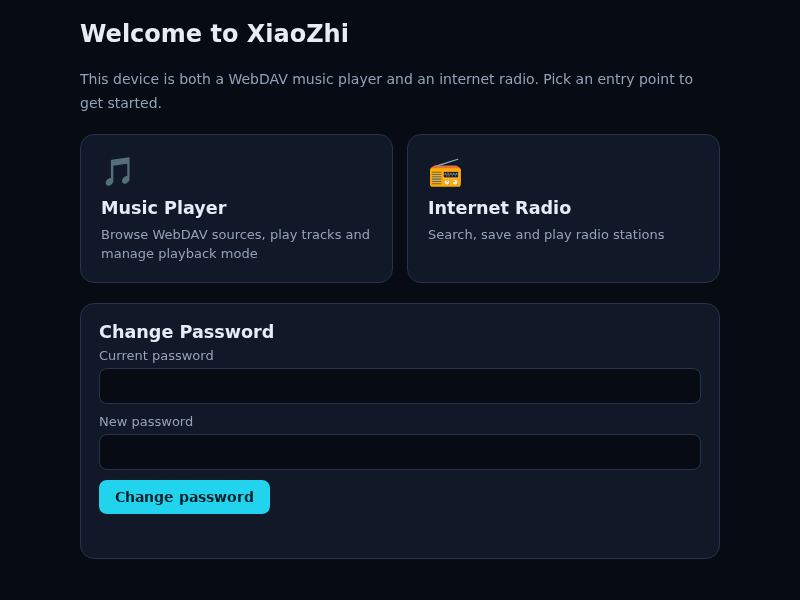
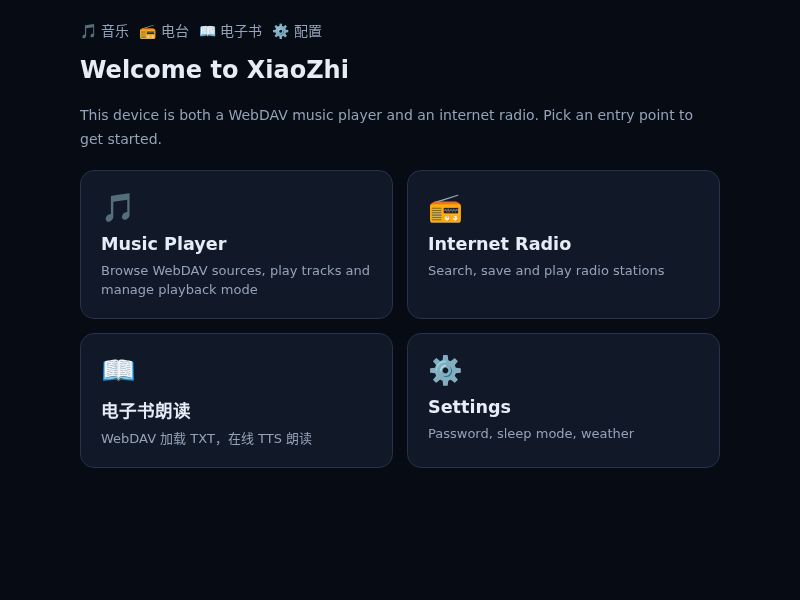
docs: refresh READMEs and UI screenshots
Correct variant, board and language counts, fix the password location, remove duplicate entries, add beginner quick-start guides in all three languages, and recapture the login and home page screenshots from the device.

diff --git a/README_ja.md b/README_ja.md
@@ -16,12 +16,13 @@
 
 ## 最近の更新
 
-- 本プロジェクトはESP-IDF v6.0.1以降を必須とし、推奨SDKは[ESP-IDF `release/v6.1`](https://github.com/espressif/esp-idf/tree/release/v6.1)ブランチです。ESP-IDF 5.xはサポートしません。現在のマトリクスは171バリアントで、ESP32-S31バリアントにはIDF 6.1以降が必要です。
+- 本プロジェクトはESP-IDF v6.0.1以降を必須とし、推奨SDKは[ESP-IDF `release/v6.1`](https://github.com/espressif/esp-idf/tree/release/v6.1)ブランチです。ESP-IDF 5.xはサポートしません。現在のマトリクスは197バリアントで、ESP32-S31バリアントにはIDF 6.1以降が必要です。
 - MQTTとBluFiの暗号処理をPSA Cryptoへ移行し、IDF 6のコンポーネント分割およびサードパーティ依存関係にも対応しました。
 - オーディオパイプラインの並行処理、MQTT/UDPパケット検証、リリースマトリクス選択処理を強化しました。
 - ESP-SR 2.4.7を使用すると、ESP32-P4 Rev1とRev3の両方がIDF 6に対応します。
-- WebDAVミュージックプレイヤーとネットワークラジオを追加しました。WebUIはホーム(`/`)、音楽(`/music`)、ラジオ(`/radio`)の3ページ構成で、共通のCookieログイン(`/login`)と統一API `/api/auth` を使用します。ホームでパスワード変更もできます。音源フォームではOpenList経由でFTP・SFTP・SMB・オブジェクトストレージを利用するよう案内します。詳細は[WebDAV Music Player](docs/music-player.md)を参照してください。
+- WebDAVミュージックプレイヤーとネットワークラジオを追加しました。WebUIはホーム(`/`)、音楽(`/music`)、ラジオ(`/radio`)、電子書籍(`/book`)の4ページ構成で、共通のCookieログイン(`/login`)と統一API `/api/auth` を使用します。パスワード変更は設定ページ(`/config`)で行います。音源フォームではOpenList経由でFTP・SFTP・SMB・オブジェクトストレージを利用するよう案内します。詳細は[WebDAV Music Player](docs/music-player.md)を参照してください。
 - Wi-Fiは同じSSIDの複数APから最も強い信号を選び、Espressifのローミングアプリで能動的に切り替えます。ラジオ再生には断線時の再接続とバッファ監視を追加しました。
+- WebDAVのTXT電子書籍読み上げを追加しました。書籍一覧はページ分割され、進捗はNVSに保存されます。TTSはEdge TTSとHTTPエンドポイントを切り替えられます。対応ボードではBOOTボタンで読み上げを停止できます。
 
 ### 実装済み機能
 
@@ -32,7 +33,7 @@
 - 話者認識、現在話している人を識別 [3D Speaker](https://github.com/modelscope/3D-Speaker)
 - OLED / LCDディスプレイで絵文字や豊かな感情表現を表示し、一部のボードではカメラによる視覚入力にも対応
 - バッテリー表示と電源管理
-- 38言語の画面表示に対応し、音声プロンプトはローカライズ済みリソースを優先して、未収録時は英語へフォールバック
+- 41言語の画面表示に対応し、音声プロンプトはローカライズ済みリソースを優先して、未収録時は英語へフォールバック
 - ESP32、ESP32-C3、ESP32-C5、ESP32-C6、ESP32-S3、ESP32-P4チッププラットフォーム
 - ホットスポットまたはBluFiによるWi-Fiプロビジョニング
 - デバイス側MCPによるデバイス制御（音量・明るさ調整、アクション制御など）
@@ -40,6 +41,7 @@
 - カスタマイズ可能なウェイクワード、フォント、絵文字、チャット背景、オンラインWeb編集に対応 ([カスタムアセットジェネレーター](https://github.com/78/xiaozhi-assets-generator))
 - WebDAV音源からリモート音楽を再生。WebプレイヤーとAIツールが再生セッションを共有し、ページ分割された曲一覧、検索、順番/ランダム再生、一時停止と再開、シークに対応。OpenListを使うとFTP・SFTP・SMB・オブジェクトストレージもWebDAVとして公開できます
 - ネットワークラジオ：WebUIでの検索・お気に入り、音声での選局、HLSおよびHTTP/ICYストリーム再生、断線時の自動再接続に対応
+- 電子書籍：WebDAVのTXTファイルをページ単位で一覧表示し、前回の位置から再開できます。TTSはEdge TTSかHTTPインターフェースを選択できます
 - Wi-Fiは同じSSIDのAPから最も強い信号を自動選択し、能動的にローミングします
 
 ### UI Preview
@@ -64,7 +66,7 @@
 
 ![ブレッドボードデモ](docs/v1/wiring2.jpg)
 
-### 138のボードディレクトリと171のリリースバリアントに対応（一部のみ表示）
+### 168のボードディレクトリと197のリリースバリアントに対応（一部のみ表示）
 
 - <a href="https://oshwhub.com/li-chuang-kai-fa-ban/li-chuang-shi-zhan-pai-esp32-s3-kai-fa-ban" target="_blank" title="立創・実戦派 ESP32-S3 開発ボード">立創・実戦派 ESP32-S3 開発ボード</a>
 - <a href="https://github.com/espressif/esp-box" target="_blank" title="楽鑫 ESP32-S3-BOX-3">楽鑫 ESP32-S3-BOX-3</a>
@@ -128,6 +130,18 @@
 
 👉 [初心者向けファームウェア書き込みガイド（英語）](https://docs.xiaozhi.me/en/firmware/flashing.html)
 
+### クイックスタート：書き込みから日常利用まで
+
+1. 上のガイドに従ってファームウェアを書き込み、電源を入れます。開発環境は不要です。
+2. ホットスポットまたはBluFiでWi-Fiに接続します。手順は[利用ドキュメント](https://docs.xiaozhi.me/)を参照してください。
+3. [xiaozhi.me コンソール](https://xiaozhi.me/)でデバイスを紐付けます。紐付けない場合、Web画面は使えますが音声対話はできません。
+4. ルーターの接続機器一覧か、シリアルログのIP表示でデバイスアドレスを確認します。
+5. 同じネットワークのブラウザで `http://<デバイスIP>/login` を開きます。初期パスワードは `xiaozhi` です。初回ログイン後は設定ページ(`/config`)で変更してください。
+6. ホームページには4つの入口があります。音楽プレイヤー(`/music`)、ネットワークラジオ(`/radio`)、電子書籍(`/book`)、設定(`/config`)です。
+7. 電子書籍ページでWebDAVディレクトリとTXTファイルを選び、TTS方式を指定します。Edge TTSはインターネット接続が必要です。HTTP方式はOpenAI互換の `/v1/audio/speech` エンドポイントを指定できます。進捗は保存され、次回は続きから再生できます。
+
+BOOTボタンに対応したボードでは、短押しで電子書籍またはラジオの再生を停止し、待機状態に戻せます。
+
 ### 開発環境
 
 - Cursor または VSCode
@@ -146,7 +160,6 @@
 - [詳細なWebSocket通信プロトコルドキュメント](docs/websocket.md)
 - [WebDAV Music Player：音源設定、Web API、AIツール、再生処理](docs/music-player.md)
 - [ネットワークラジオ：局管理、音声選局、HLS再生と再接続](docs/radio.md)
-- [WebDAV Music Player：音源設定、Web API、AIツール、再生処理](docs/music-player.md)
 
 ## 大規模モデル設定
 

diff --git a/README.md b/README.md
@@ -16,13 +16,13 @@ As a voice interaction entry, the XiaoZhi AI chatbot leverages the AI capabiliti
 
 ## Recent Updates
 
-- The project now requires ESP-IDF v6.0.1 or later. [ESP-IDF `release/v6.1`](https://github.com/espressif/esp-idf/tree/release/v6.1) is the recommended SDK branch. ESP-IDF 5.x is no longer supported. The current matrix contains 171 variants; ESP32-S31 builds require IDF 6.1 or later.
+- The project now requires ESP-IDF v6.0.1 or later. [ESP-IDF `release/v6.1`](https://github.com/espressif/esp-idf/tree/release/v6.1) is the recommended SDK branch. ESP-IDF 5.x is no longer supported. The current matrix contains 197 variants; ESP32-S31 builds require IDF 6.1 or later.
 - MQTT and BluFi cryptographic code has migrated to PSA Crypto. IDF 6 component splits and third-party dependency compatibility have also been addressed.
 - Audio pipeline concurrency, MQTT/UDP packet validation, and release-matrix selection have been hardened.
 - ESP32-P4 Rev1 and Rev3 are both supported on IDF 6 with ESP-SR 2.4.7.
-- Added a WebDAV music player and internet radio: the web UI has a home page (`/`), a music page (`/music`) and a radio page (`/radio`), sharing one cookie-based login page (`/login`) and a unified `/api/auth` endpoint. The home page also changes the password. The source form recommends OpenList for FTP, SFTP, SMB and object storage. See [WebDAV Music Player](docs/music-player.md).
+- Added a WebDAV music player and internet radio: the web UI has a home page (`/`), a music page (`/music`), a radio page (`/radio`) and an e-book page (`/book`), sharing one cookie-based login page (`/login`) and a unified `/api/auth` endpoint. The password is changed on the configuration page (`/config`). The source form recommends OpenList for FTP, SFTP, SMB and object storage. See [WebDAV Music Player](docs/music-player.md).
 - Wi-Fi now picks the strongest AP among same-SSID networks and enables Espressif's roaming app for active switching; radio playback adds stream reconnection and a buffering watchdog.
-- Added a WebDAV music player: the web UI manages sources, lists tracks page by page, and controls playback and seeking. AI uses the `self.music.*` tools against the same session. Playback mode and the selected source are saved in NVS. See [WebDAV Music Player](docs/music-player.md).
+- Added WebDAV TXT e-book reading. The book list is paginated, progress is saved in NVS, and the TTS provider can be switched between Edge TTS and a configurable HTTP endpoint. The BOOT button stops reading and returns to idle.
 
 ### Features Implemented
 
@@ -33,7 +33,7 @@ As a voice interaction entry, the XiaoZhi AI chatbot leverages the AI capabiliti
 - Speaker recognition, identifies the current speaker [3D Speaker](https://github.com/modelscope/3D-Speaker)
 - OLED / LCD displays with emoji and rich expression support, plus camera vision input on supported boards
 - Battery display and power management
-- 39 interface languages, with localized voice prompts where available and English fallback
+- 41 interface languages, with localized voice prompts where available and English fallback
 - ESP32, ESP32-C3, ESP32-C5, ESP32-C6, ESP32-S3, and ESP32-P4 chip platforms
 - Wi-Fi provisioning through hotspot or BluFi
 - Device-side MCP for device control (Speaker, LED, Servo, GPIO, etc.)
@@ -41,6 +41,7 @@ As a voice interaction entry, the XiaoZhi AI chatbot leverages the AI capabiliti
 - Customizable wake words, fonts, emojis, and chat backgrounds with online web-based editing ([Custom Assets Generator](https://github.com/78/xiaozhi-assets-generator))
 - Play remote music from WebDAV sources. The web player and AI tools share one playback session, with paginated track lists, search, sequential/shuffle modes, pause and resume, and progress seeking. OpenList can expose FTP, SFTP, SMB and object storage as WebDAV
 - Internet radio: search and save stations from the web UI, select them by voice, play HLS or direct HTTP/ICY streams, and reconnect automatically after stream drops
+- E-book reading: browse WebDAV TXT books page by page, resume from the last position, and choose Edge TTS or an HTTP TTS endpoint; the BOOT button stops playback
 - Wi-Fi automatically prefers the strongest AP among networks with the same SSID and roams proactively
 
 ### UI Preview
@@ -65,7 +66,7 @@ Breadboard demo:
 
 ![Breadboard Demo](docs/v1/wiring2.jpg)
 
-### Supports 138 Board Directories and 171 Release Variants (Partial List)
+### Supports 168 Board Directories and 197 Release Variants (Partial List)
 
 - <a href="https://oshwhub.com/li-chuang-kai-fa-ban/li-chuang-shi-zhan-pai-esp32-s3-kai-fa-ban" target="_blank" title="LiChuang ESP32-S3 Development Board">LiChuang ESP32-S3 Development Board</a>
 - <a href="https://github.com/espressif/esp-box" target="_blank" title="Espressif ESP32-S3-BOX-3">Espressif ESP32-S3-BOX-3</a>
@@ -129,6 +130,18 @@ The firmware connects to the official [xiaozhi.me](https://xiaozhi.me) server by
 
 👉 [Beginner's Firmware Flashing Guide](https://docs.xiaozhi.me/en/firmware/flashing.html)
 
+### Quick Start: From a Flashed Device to Daily Use
+
+1. Flash a prebuilt image and power on the board. Follow the flashing guide above; you do not need a development environment for this step.
+2. Put the device into Wi-Fi provisioning mode and connect it to your network. Use the hotspot or BluFi flow described in the [guide](https://docs.xiaozhi.me/en/).
+3. Bind the device in the [xiaozhi.me console](https://xiaozhi.me/) so voice chat works. Without binding, the device can still use its web pages, but it will not answer voice requests.
+4. Find the device IP in your router's client list or in the serial log line that reports the obtained IP address.
+5. Open `http://<device-ip>/login` in a browser on the same network. The default password is `xiaozhi`. Change it on the configuration page (`/config`) after the first login.
+6. The home page links to four tools: **Music Player** (`/music`) for WebDAV audio, **Internet Radio** (`/radio`) for station search and playback, **E-book** (`/book`) for WebDAV TXT files, and **Settings** (`/config`) for password, language, sleep timer and network settings.
+7. In `/book`, save a WebDAV directory, pick a TXT file, and choose the TTS provider. Edge TTS needs internet access; the HTTP option accepts any OpenAI-compatible `/v1/audio/speech` endpoint. Progress is saved, so the next play resumes where you stopped.
+
+On boards that implement the BOOT-button playback control, a short press stops the current e-book or radio stream and returns the device to idle.
+
 ### Development Environment
 
 - Cursor or VSCode
@@ -148,7 +161,6 @@ Use the `release/v6.1` branch rather than the `v6.1` release tag: an ESP32-C3 Wi
 - [A detailed WebSocket communication protocol document](docs/websocket.md)
 - [WebDAV Music Player: source setup, web API, AI tools, and playback implementation](docs/music-player.md)
 - [Internet Radio: station management, voice selection, HLS playback and reconnection](docs/radio.md)
-- [WebDAV Music Player: source setup, web API, AI tools, and playback implementation](docs/music-player.md)
 
 ## Large Model Configuration
 

diff --git a/README_zh.md b/README_zh.md
@@ -16,12 +16,13 @@
 
 ## 近期更新
 
-- 项目现在要求 ESP-IDF v6.0.1 或以上版本，推荐使用 [ESP-IDF `release/v6.1`](https://github.com/espressif/esp-idf/tree/release/v6.1) 分支。不再支持 ESP-IDF 5.x。当前矩阵包含 171 个变体，其中 ESP32-S31 变体需要 IDF 6.1 或以上版本。
+- 项目现在要求 ESP-IDF v6.0.1 或以上版本，推荐使用 [ESP-IDF `release/v6.1`](https://github.com/espressif/esp-idf/tree/release/v6.1) 分支。不再支持 ESP-IDF 5.x。当前矩阵包含 197 个变体，其中 ESP32-S31 变体需要 IDF 6.1 或以上版本。
 - MQTT 和 BluFi 加密已迁移到 PSA Crypto，同时完成了 IDF 6 组件拆分及第三方依赖兼容处理。
 - 加固了音频流水线并发、MQTT/UDP 数据包校验和发布矩阵选择逻辑。
 - 使用 ESP-SR 2.4.7 时，ESP32-P4 Rev1 和 Rev3 均支持 IDF 6。
-- 新增 WebDAV 音乐播放器与网络电台：网页端有独立首页（`/`）、音乐页（`/music`）和电台页（`/radio`），共用一个 Cookie 登录页（`/login`）和统一鉴权接口 `/api/auth`，首页可修改密码。播放模式和选中音源保存在 NVS 中。音源管理页提示用 OpenList 接入 FTP、SFTP、SMB、对象存储等网盘。详见 [WebDAV 音乐播放器](docs/music-player_zh.md)。
+- 新增 WebDAV 音乐播放器与网络电台：网页端有独立首页（`/`）、音乐页（`/music`）、电台页（`/radio`）和电子书页（`/book`），共用一个 Cookie 登录页（`/login`）和统一鉴权接口 `/api/auth`。密码在配置页（`/config`）修改。播放模式和选中音源保存在 NVS 中。音源管理页提示用 OpenList 接入 FTP、SFTP、SMB、对象存储等网盘。详见 [WebDAV 音乐播放器](docs/music-player_zh.md)。
 - 网络优化：同名多 AP 启动时连接信号最强的节点，并启用 ESP-IDF 漫游 App 主动切换；电台播放加入断流重连和缓冲看门狗。
+- 新增 WebDAV TXT 电子书朗读：书目分页显示，进度写入 NVS 可续播；TTS 可在 Edge TTS 与自定义 HTTP 接口之间切换；支持该按键的板子短按 BOOT 可停止朗读并返回待机。
 
 ### 已实现功能
 
@@ -32,7 +33,7 @@
 - 声纹识别，识别当前说话人的身份 [3D Speaker](https://github.com/modelscope/3D-Speaker)
 - OLED / LCD 显示屏，支持表情和丰富的情绪呈现；部分硬件支持摄像头视觉输入
 - 电量显示与电源管理
-- 提供 38 种界面语言；语音提示优先使用本地化资源，缺失时自动回退到英文
+- 提供 41 种界面语言；语音提示优先使用本地化资源，缺失时自动回退到英文
 - 支持 ESP32、ESP32-C3、ESP32-C5、ESP32-C6、ESP32-S3、ESP32-P4 芯片平台
 - 支持热点和 BluFi 两种 Wi-Fi 配网方式
 - 通过设备端 MCP 实现设备控制（音量、灯光、电机、GPIO 等）
@@ -40,6 +41,7 @@
 - 自定义唤醒词、字体、表情与聊天背景，支持网页端在线修改 ([自定义Assets生成器](https://github.com/78/xiaozhi-assets-generator))
 - 从 WebDAV 音源播放远程音乐，网页播放器与 AI 工具共用播放会话；支持分页曲目列表、搜索、随机/顺序播放、暂停恢复和进度跳转；OpenList 可把 FTP、SFTP、SMB、对象存储等协议统一暴露为 WebDAV
 - 网络电台：网页搜索与收藏电台、AI 语音选台，支持 HLS 和直连 HTTP/ICY 流，断流自动重连
+- 电子书朗读：分页浏览 WebDAV 中的 TXT 书目，按上次进度续播；TTS 可选 Edge TTS 或 HTTP 接口；支持该按键的板子按 BOOT 可停止朗读
 - Wi-Fi 支持同名多 AP 自动选择信号最强节点并主动漫游
 
 ### 界面预览
@@ -64,7 +66,7 @@
 
 ![面包板效果图](docs/v1/wiring2.jpg)
 
-### 支持 138 个板卡目录、171 个固件发布变体（仅展示部分）
+### 支持 168 个板卡目录、197 个固件发布变体（仅展示部分）
 
 - <a href="https://oshwhub.com/li-chuang-kai-fa-ban/li-chuang-shi-zhan-pai-esp32-s3-kai-fa-ban" target="_blank" title="立创·实战派 ESP32-S3 开发板">立创·实战派 ESP32-S3 开发板</a>
 - <a href="https://github.com/espressif/esp-box" target="_blank" title="乐鑫 ESP32-S3-BOX-3">乐鑫 ESP32-S3-BOX-3</a>
@@ -127,6 +129,18 @@
 固件默认接入 [xiaozhi.me](https://xiaozhi.me) 官方服务器，个人用户注册账号可以免费使用 Qwen 实时模型。
 
 👉 [新手烧录固件教程](https://docs.xiaozhi.me/zh/firmware/flashing.html)
+
+### 新手快速上手：从刷机到日常使用
+
+1. 先按上面的教程烧录固件并上电。这一步不需要搭建开发环境。
+2. 让设备进入配网模式并连上家里的 Wi-Fi，可以用热点或 BluFi 配网，具体步骤见[使用文档](https://docs.xiaozhi.me/zh/)。
+3. 在 [xiaozhi.me 控制台](https://xiaozhi.me/)绑定设备，否则只能使用网页功能，不能语音对话。
+4. 在路由器客户端列表或串口日志的 IP 分配信息里找到设备地址。
+5. 浏览器打开 `http://<设备IP>/login`，默认密码是 `xiaozhi`。首次登录后请到配置页（`/config`）修改密码。
+6. 首页有四个入口：**音乐播放器**（`/music`）管理 WebDAV 音源，**网络电台**（`/radio`）搜索和收藏电台，**电子书朗读**（`/book`）播放 WebDAV 里的 TXT 文件，**配置**（`/config`）修改密码、语言、睡眠定时和网络设置。
+7. 在电子书页保存 WebDAV 目录、选择 TXT 文件和 TTS 方案。Edge TTS 需要联网；HTTP 方案可以填任意兼容 OpenAI `/v1/audio/speech` 的接口。朗读进度会保存，下次播放从上次位置继续。
+
+支持 BOOT 键控制的板子短按一下会停止当前的电子书或电台播放，并回到待机状态。
 
 ### 开发环境
 
